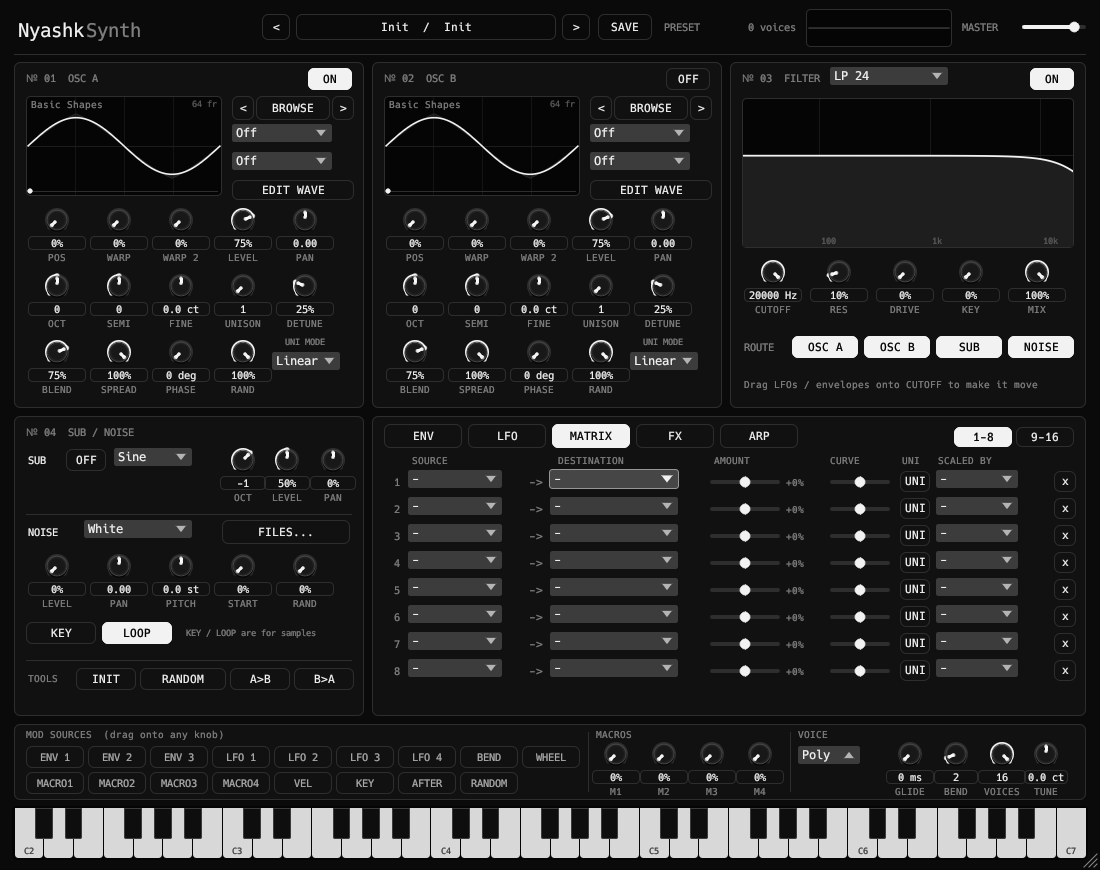
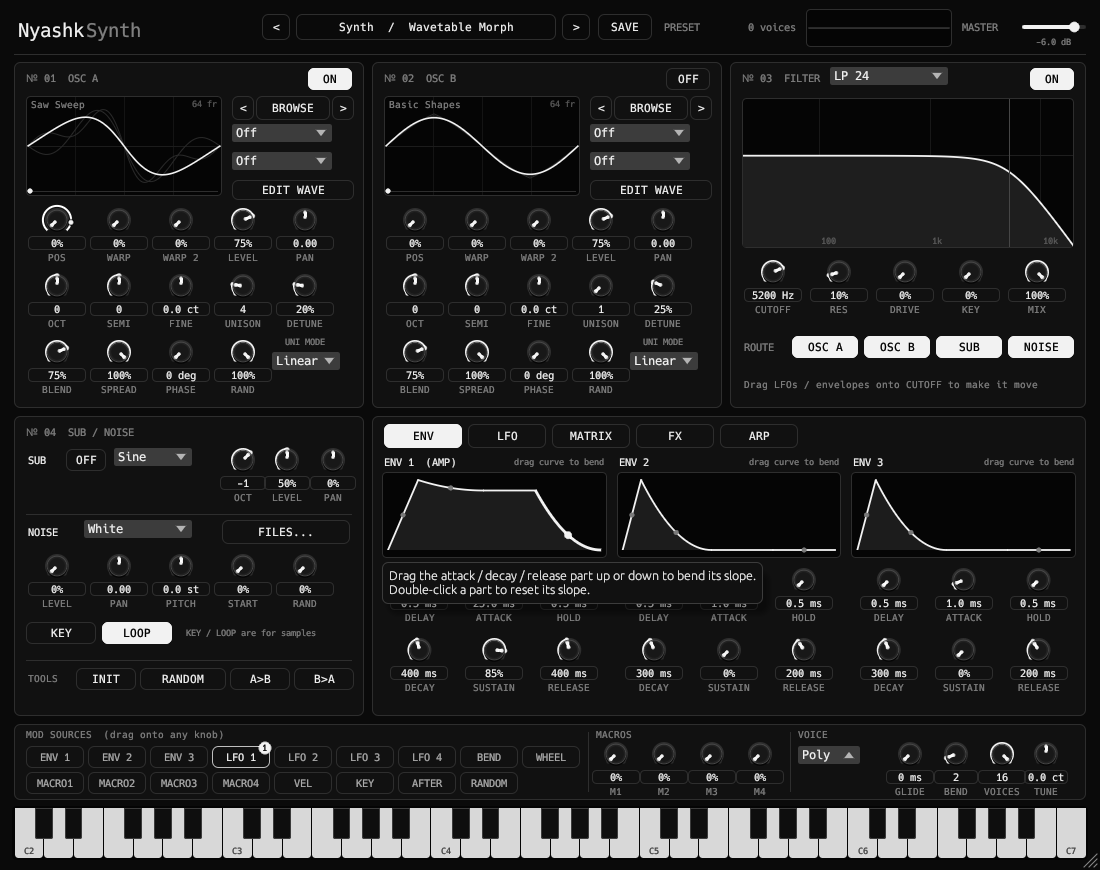
Wave editor tests, adaptive multi-frame throttle, safer random cutoff mod; new screenshots and README
Claude-Session: https://claude.ai/code/session_01EndxvcXZsUxUuBFyUHCgZr

diff --git a/plugins/nyashksynth/src/wavedit.rs b/plugins/nyashksynth/src/wavedit.rs
@@ -74,6 +74,7 @@ pub struct WavEdit {
     drag_orig: Option<(usize, usize, Vec<Vec<f32>>, Vec<f32>)>,
     multi_pending: bool,
     last_multi: f64,
+    multi_cost: f64,
 }
 
 fn fill_under(painter: &egui::Painter, pts: &[Pos2], bottom: f32, color: Color32) {
@@ -133,8 +134,33 @@ impl WavEdit {
             drag_orig: None,
             multi_pending: false,
             last_multi: 0.0,
+            multi_cost: 0.0,
         };
         w.anchor = w.frame;
+        if std::env::var("NYASHK_DEMO").is_ok() {
+            // developer aid for screenshots: a morphing table with a selected range
+            if let Ok(ex) = crate::formula::parse("sin(2*pi*x + w*6*sin(2*pi*x)) + w*sin(10*pi*x)/3") {
+                let frames: Vec<Vec<f32>> = (0..64)
+                    .map(|i| {
+                        let mut t = crate::formula::frame(&ex, i as f32 / 63.0, N);
+                        let pk = t.iter().fold(0.0f32, |a, b| a.max(b.abs())).max(1e-6);
+                        t.iter_mut().for_each(|v| *v *= 0.9 / pk);
+                        t
+                    })
+                    .collect();
+                w.tbl = Table::from_frames(&frames);
+                w.frame = 30;
+                w.anchor = 14;
+                w.sel = Some((14, 42));
+                w.scope = Scope::Sel;
+                w.ramp = Ramp::Middle;
+                w.soft = 0.5;
+                w.strength = 0.8;
+                w.vary = 0.25;
+                w.drift = 0.2;
+                w.name = "Demo Morph".into();
+            }
+        }
         w.reload();
         w
     }
@@ -280,7 +306,7 @@ impl WavEdit {
         self.set_time(t, now);
         if self.drag_orig.is_some() {
             self.multi_pending = true;
-            if now - self.last_multi > 0.1 {
+            if now - self.last_multi > (self.multi_cost * 3.0).max(0.1) {
                 self.apply_multi(now);
             }
         }
@@ -291,6 +317,7 @@ impl WavEdit {
             return;
         }
         self.multi_pending = false;
+        let t_start = std::time::Instant::now();
         let Some((lo, hi, orig, cur0)) = self.drag_orig.take() else { return };
         let delta: Vec<f32> = self.time.iter().zip(&cur0).map(|(a, b)| a - b).collect();
         for i in lo..=hi {
@@ -315,6 +342,7 @@ impl WavEdit {
         self.peaks_dirty = true;
         self.touch(now);
         self.last_multi = now;
+        self.multi_cost = t_start.elapsed().as_secs_f64();
     }
 
     fn run_formula(&mut self, now: f64) {
@@ -1247,5 +1275,112 @@ mod tests {
         assert!((w.weight(4, 0, 4) - 0.5).abs() < 1e-6);
         w.ramp = Ramp::Out;
         assert!((w.weight(0, 0, 4) - 0.5).abs() < 1e-6);
+    }
+}
+
+#[cfg(test)]
+mod more_tests {
+    use super::*;
+
+    fn mk(n: usize) -> WavEdit {
+        let frames: Vec<Vec<f32>> = (0..n).map(|i| (0..N).map(|k| ((k as f32 / N as f32 * std::f32::consts::TAU) * (1 + i % 5) as f32).sin() * 0.6).collect()).collect();
+        WavEdit::new(0, Table::from_frames(&frames), "t".into(), 0.0)
+    }
+
+    #[test]
+    fn insert_delete_selection_keep_ranges_valid() {
+        let mut w = mk(10);
+        w.sel = Some((3, 6));
+        w.scope = Scope::Sel;
+        // duplicate selection
+        let mut fr = w.tbl.to_frames();
+        let copy: Vec<Vec<f32>> = fr[3..=6].to_vec();
+        for (k, f) in copy.into_iter().enumerate() {
+            fr.insert(7 + k, f);
+        }
+        w.tbl = Table::from_frames(&fr);
+        w.reload();
+        assert_eq!(w.tbl.frames(), 14);
+        // selection beyond the table is clamped away, never panics
+        w.sel = Some((9, 40));
+        w.reload();
+        assert!(w.sel.map_or(true, |(a, b)| a < b && b < 14));
+        let (lo, hi) = w.scope_range();
+        assert!(hi < 14 && lo <= hi);
+    }
+
+    #[test]
+    fn morph_blends_between_ends_and_rejects_short_ranges() {
+        let mut w = mk(9);
+        w.scope = Scope::Sel;
+        w.sel = Some((0, 1));
+        assert!(!w.morph_range(1.0), "2 frames: nothing to morph");
+        w.sel = Some((0, 8));
+        let a = w.tbl.frame_time(0);
+        let b = w.tbl.frame_time(8);
+        assert!(w.morph_range(1.0));
+        let mid = w.tbl.frame_time(4);
+        // middle frame lies between the two ends (energy sanity) and is finite
+        assert!(mid.iter().all(|v| v.is_finite() && v.abs() < 2.0));
+        assert!((w.tbl.frame_time(0)[10] - a[10]).abs() < 1e-3);
+        assert!((w.tbl.frame_time(8)[10] - b[10]).abs() < 1e-3);
+        w.spectral = false;
+        assert!(w.morph_range(2.0));
+    }
+
+    #[test]
+    fn scope_ops_respect_range_and_undo_redo() {
+        let mut w = mk(8);
+        w.scope = Scope::Sel;
+        w.sel = Some((2, 5));
+        let before: Vec<Vec<f32>> = w.tbl.to_frames();
+        w.apply_time(1.0, |t| t.iter_mut().for_each(|v| *v = -*v));
+        let after = w.tbl.to_frames();
+        assert!((after[0][100] - before[0][100]).abs() < 1e-3, "outside the range stays");
+        assert!((after[3][100] + before[3][100]).abs() < 1e-2, "inside is inverted");
+        w.strength = 0.5;
+        w.apply_time(2.0, |t| t.iter_mut().for_each(|v| *v = 0.0));
+        assert!(w.tbl.frame_time(3)[100].abs() < before[3][100].abs());
+        // undo twice returns to the start
+        let u1 = w.undo.pop().unwrap();
+        w.tbl = u1;
+        let u2 = w.undo.pop().unwrap();
+        w.tbl = u2;
+        w.reload();
+        assert!((w.tbl.frame_time(3)[100] - before[3][100]).abs() < 1e-3);
+    }
+
+    #[test]
+    fn drawing_on_all_frames_is_fast_enough() {
+        let mut w = mk(256);
+        w.scope = Scope::All;
+        w.frame = 100;
+        w.reload();
+        w.begin_multi();
+        let mut t = w.time.clone();
+        t[50..300].iter_mut().for_each(|v| *v += 0.2);
+        let t0 = std::time::Instant::now();
+        w.commit_draw(t, 10.0);
+        w.apply_multi(10.0);
+        let ms = t0.elapsed().as_millis();
+        eprintln!("apply to 256 frames: {ms} ms");
+        assert!(ms < 1500);
+    }
+
+    #[test]
+    fn formula_scope_and_weights_never_nan() {
+        let mut w = mk(16);
+        w.scope = Scope::All;
+        w.ramp = Ramp::Edges;
+        w.soft = 1.0;
+        w.formula = "sin(2*pi*x*(1+floor(w*7)))".into();
+        w.run_formula(1.0);
+        assert!(w.formula_err.is_empty());
+        for f in w.tbl.to_frames() {
+            assert!(f.iter().all(|v| v.is_finite()));
+        }
+        w.formula = "garbage((".into();
+        w.run_formula(2.0);
+        assert!(!w.formula_err.is_empty());
     }
 }

diff --git a/plugins/nyashksynth/src/editor.rs b/plugins/nyashksynth/src/editor.rs
@@ -40,6 +40,7 @@ pub enum TblSrc {
 }
 
 pub struct Gui {
+    auto_loaded: bool,
     pub tab: usize,
     pub fx_sel: usize,
     pub fx_drag: Option<usize>,
@@ -169,6 +170,7 @@ impl Gui {
     fn new() -> Gui {
         files::ensure_dirs();
         Gui {
+            auto_loaded: false,
             tab: std::env::var("NYASHK_TAB").ok().and_then(|s| s.parse().ok()).unwrap_or(0),
             fx_sel: 0,
             fx_drag: None,
@@ -260,6 +262,15 @@ pub fn create(params: Arc<SynthParams>, meters: Arc<Meters>, shared: Arc<Shared>
                     st.open_edit(&shared, p, 0);
                 }
 
+                if let Ok(name) = std::env::var("NYASHK_PRESET") {
+                    // developer aid for screenshots: load a preset once, by name
+                    if !st.auto_loaded {
+                        st.auto_loaded = true;
+                        if let Some(rf) = st.presets.iter().find(|q| q.name == name).cloned() {
+                            let _ = presets::load(setter, p, &shared, &rf);
+                        }
+                    }
+                }
                 autotest(setter, p, &shared, st, &meters, now);
                 header(ui, setter, p, &shared, st, &meters, o, now);
 
@@ -1679,7 +1690,7 @@ fn randomize(setter: &ParamSetter, p: &SynthParams, shared: &Shared, seed: u64) 
             continue;
         }
         used.push((si, di));
-        let sign = if r.chance(0.3) { -1.0 } else { 1.0 };
+        let sign = if r.chance(0.3) && !matches!(dsts[di], D::Cutoff | D::FxFilterCut) { -1.0 } else { 1.0 };
         let amt = if pitch { r.range(0.02, 0.12) } else { r.range(0.12, 0.65) };
         set_e(setter, &p.slot[k].src, srcs[si]);
         set_e(setter, &p.slot[k].dst, dsts[di]);

diff --git a/README.md b/README.md
@@ -25,16 +25,25 @@ A Serum-style wavetable synthesizer in the same black-and-white Nyashk design.
 | | |
 |---|---|
 | **Oscillators** | 2 wavetable oscillators (A/B) with a built-in table library, **warp ×2 per oscillator (22 modes)**, unison (up to 16 voices, 4 modes), sub oscillator and noise (with sample loading) |
-| **Wavetable editor** | Draw, edit harmonics (amp/phase), formula generator (`sin(x*tau)*…`), spectral and time ops, frame morphing, import of `.wav` tables |
+| **Wavetable editor** | Draw, edit harmonics (amp/phase), formula generator (`sin(x*tau)*…`), spectral and time ops, **multi-frame editing** (select a range of frames and draw/process them together, with strength, fade, soft edges, vary and drift), frame morphing, undo/redo, import and export of `.wav` tables |
 | **Filter** | 16 types (LP/HP/Band/Notch, Ladder, shelves, combs, phaser, formant) with a live response graph, routing per source |
 | **Envelopes / LFOs** | 3 envelopes with bendable slopes, 4 LFOs (10 shapes, drawable curve, delay, one-shot, tempo sync) |
 | **Mod matrix** | 16 slots, drag any source onto any knob, per-slot curve / uni / aux source, live modulation dots on the knobs, **FX parameters are modulatable** |
 | **Effects** | Hyper/Dimension, Distortion, Flanger, Phaser, Chorus, Delay, Compressor, Reverb, EQ, Filter: reorderable chain |
 | **Arpeggiator** | 7 patterns, 18 rates incl. triplets/dotted, gate, swing, octaves, hold |
 | **Performance** | Poly / Mono / Legato, glide, sustain pedal, mod wheel, pitch bend, aftertouch, on-screen keyboard, oscilloscope |
-| **Presets** | 68 factory presets in categories, user presets / tables / noises as plain files you can drop into folders |
+| **Presets** | 68 factory presets in categories, user presets / tables / noises as plain files you can drop into folders. The RANDOM button builds a full new patch (matrix routes, all 4 LFOs, 3 envelopes, macros, FX, arp reset) |
 
 User data: `~/.config/NyashkSynth/{Presets,Tables,Noises}` (Windows: `%APPDATA%\NyashkSynth\…`).
+
+### Wavetable editor in short
+
+- **Frame strip** (top): click a frame, drag to select a range, Shift+click to extend, ←/→ to walk through frames.
+- **APPLY TO**: *Frame*, *Selection* or *All frames*. Every process button (NORM, REVERSE, LOWPASS, FOLD, SMOOTH, RANDOM, set-to-shape, formula GENERATE …) acts on the chosen frames.
+- **STRENGTH / FADE / SOFT EDGES**: how much of the change each frame gets: flat, in, out, middle or edges, from hard to smooth borders.
+- **Drawing on many frames**: with a range selected, what you draw in the WAVE view changes only that piece of the wave on every selected frame. **VARY** gives each frame a different amount, **DRIFT** slides the piece a bit further on each next frame.
+- **MORPH** interpolates the frames inside the range between its first and last frame (spectral or linear).
+- **SAVE TO LIBRARY** writes the wavetable as a Serum-compatible `.wav` into `Tables/My Waves`, where it shows up in the browser. Custom tables are also stored inside presets and projects.
 
 **Rendering.** On Linux the UI is drawn through Vulkan (wgpu) and falls back to a fast CPU renderer automatically. Force the CPU path with `NYASHK_RENDER=cpu`; the chosen renderer is logged to `/tmp/nyashktune.log`. Windows uses OpenGL.
 

diff --git a/RELEASE_NOTES.md b/RELEASE_NOTES.md
@@ -1,3 +1,10 @@
+## NyashkSynth v1.1.1
+
+- Wavetable editor rewritten: frame strip with range selection, APPLY TO (frame / selection / all), strength, fade, soft edges, vary and drift, drawing on many frames at once, MORPH, redo, auto-fit wave view (no more clipped waves), SAVE TO LIBRARY.
+- RANDOM builds fuller patches (3-10 matrix routes with varied sources/targets, all LFOs, envelope 3, macros, FX) and resets arp/FX first.
+- Master level shows its value in dB.
+- Stuck-note fixes (GUI watchdog, panic button), faster Vulkan / CPU renderer.
+
 ## NyashkSynth v1.0.0
 
 NyashkSynth is a Serum-style wavetable synthesizer VST3 plugin.
